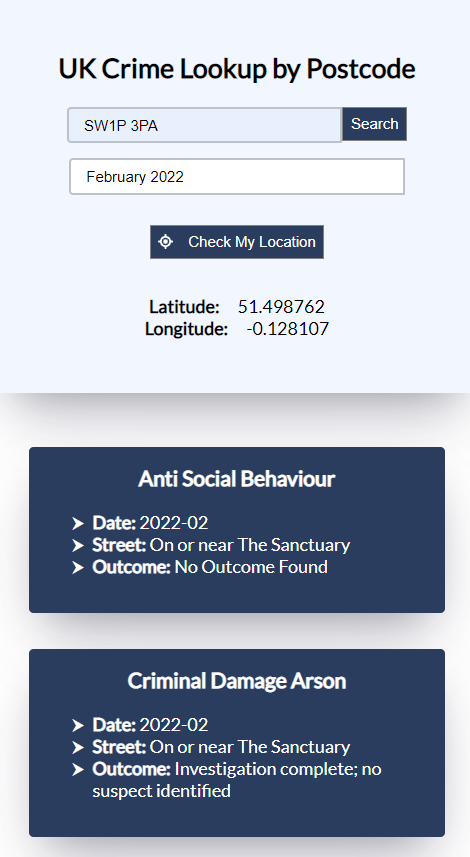
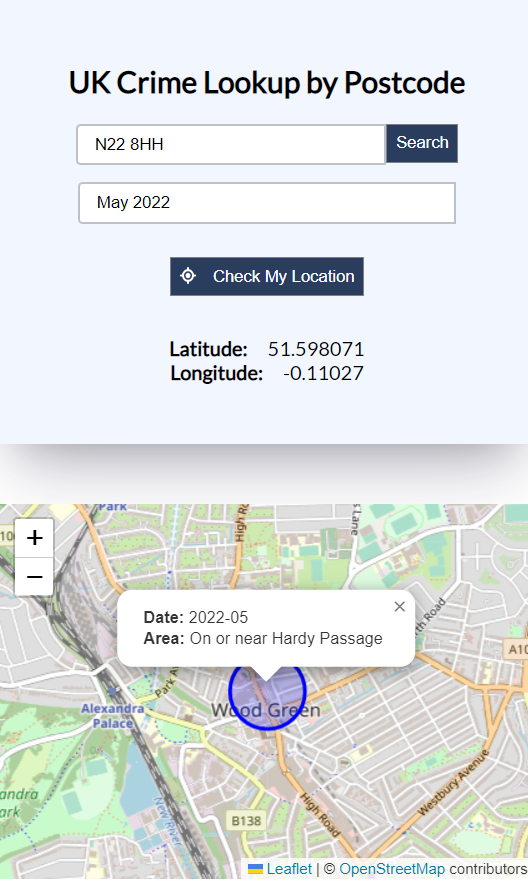
added leaflet map

diff --git a/src/components/CrimeMap.jsx b/src/components/CrimeMap.jsx
@@ -1,0 +1,40 @@
+import { CircleMarker, MapContainer, Marker, Popup, TileLayer } from 'react-leaflet'
+import 'leaflet/dist/leaflet.css';
+import CrimeMapSetter from './CrimeMapSetter';
+
+export default function CrimeMap({ crimes }) {
+    const defaultPosition = [51.505, -0.09];
+    const radius = 30;
+    const zoom = 13;
+    
+    const lat = crimes[0]?.location.latitude || defaultPosition[0];
+    const lon = crimes[0]?.location.longitude || defaultPosition[1];
+    const month = crimes[0]?.month;
+    const streetName = crimes[0]?.location.street.name;
+
+    return (
+        <div className='crime-map'>
+            <MapContainer center={[lat, lon]} zoom={zoom} scrollWheelZoom={false}>
+                <CrimeMapSetter lat={lat} lon={lon} zoom={zoom} />
+                <TileLayer
+                    attribution='&copy; <a href="https://www.openstreetmap.org/copyright">OpenStreetMap</a> contributors'
+                    url="https://{s}.tile.openstreetmap.org/{z}/{x}/{y}.png"
+                />
+                {crimes.length > 0 &&
+                    <CircleMarker
+                        center={[lat, lon]}
+                        pathOptions={{color: 'blue'}}
+                        radius={radius}
+                    >
+                        <Popup>
+                            <ul className='detail-list'>
+                                <li><strong>Date: </strong>{month}</li>
+                                <li><strong>Area: </strong>{streetName}</li>
+                            </ul>
+                        </Popup>
+                    </CircleMarker>
+                }
+            </MapContainer>
+        </div>
+    )
+}

diff --git a/src/components/CrimeComponent.jsx b/src/components/CrimeComponent.jsx
@@ -1,6 +1,7 @@
 import { useState } from "react";
 
 import CrimeList from "./CrimeList";
+import CrimeMap from "./CrimeMap";
 import SearchForm from "./SearchForm";
 
 export default function CrimeComponent() {
@@ -9,6 +10,7 @@ export default function CrimeComponent() {
     return (
         <div className="crime-checker">
             <SearchForm setCrimes={setCrimes} />
+            <CrimeMap crimes={crimes} />
             <CrimeList crimes={crimes} />
         </div>
     );

diff --git a/src/index.js b/src/index.js
@@ -4,6 +4,12 @@ import './index.css';
 import App from './App';
 import reportWebVitals from './reportWebVitals';
 
+import L from "leaflet";
+import markerIcon from "../node_modules/leaflet/dist/images/marker-icon.png";
+L.Marker.prototype.setIcon(L.icon({
+  iconUrl: markerIcon
+}))
+
 const root = ReactDOM.createRoot(document.getElementById('root'));
 root.render(
   <React.StrictMode>

diff --git a/src/App.css b/src/App.css
@@ -57,6 +57,7 @@ body {
 }
 .crime-list {
   list-style: none;
+  margin-top: 2em;
   padding-left: 0;
 }
 .crime-list .crime-item {
@@ -84,4 +85,11 @@ body {
   content: '⮞';
   position: absolute;
   left: -1.2em;
+}
+.leaflet-container {
+  height: 300px;
+}
+.crime-map .detail-list {
+  list-style: none;
+  padding-left: 0;
 }

diff --git a/src/components/CrimeMapSetter.jsx b/src/components/CrimeMapSetter.jsx
@@ -1,0 +1,14 @@
+import React, { useEffect } from "react";
+import { useMap } from "react-leaflet";
+
+export default function CrimeMapSetter({ lat, lon, zoom }) {
+  const map = useMap();
+
+    useEffect(() => {
+        map.setView([lat, lon], zoom);
+    }, [lat, lon])
+  
+  return (
+    <></>
+  );
+}
